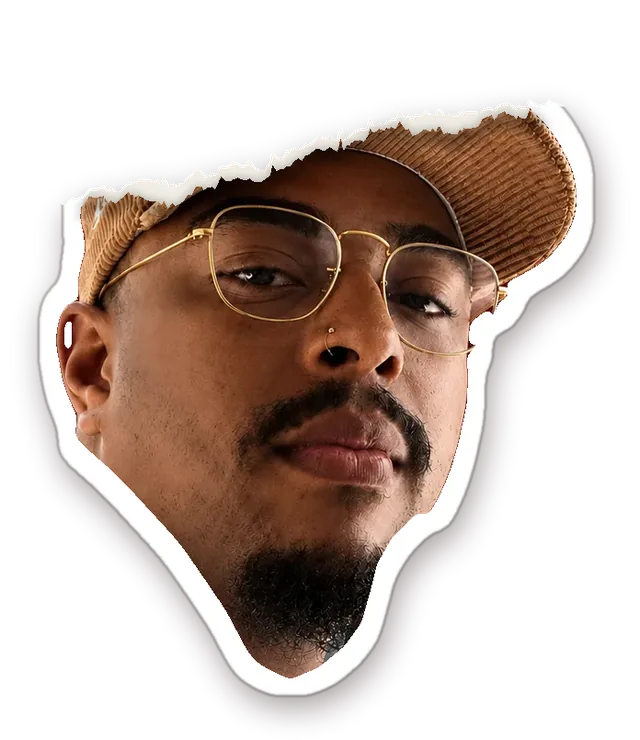
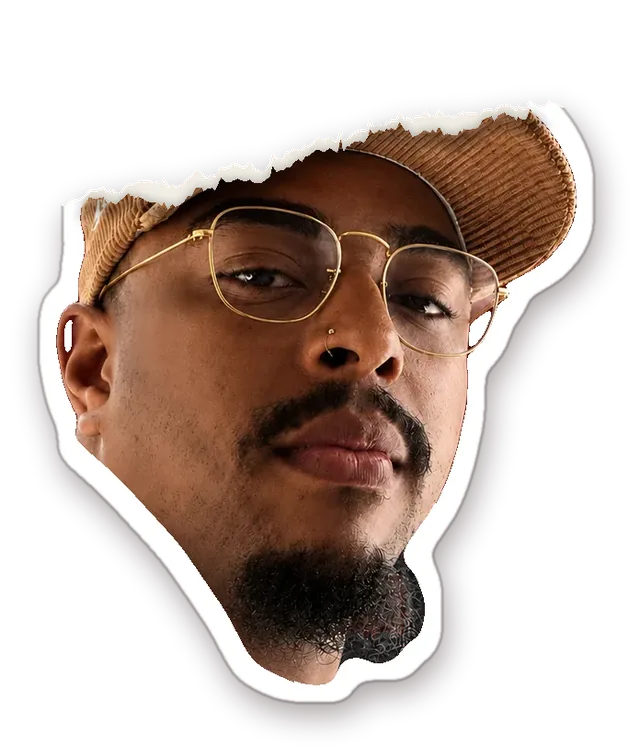
Clean goatee edge (#8)
The hero sticker keeps the whole goatee again, with the gaps between
curls filled and a smooth rounded edge instead of a chopped one. The red
background fringe in the beard is removed from the hero and the About
card portrait.

Claude-Session: https://claude.ai/code/session_01RGXm2qui5F1c798xJE6Kaf

diff --git a/site/index.html b/site/index.html
@@ -1211,10 +1211,10 @@ button.ccopy:focus-visible { outline: 2px solid var(--gold); outline-offset: 3px
 @media (max-width: 700px) { .ld-wrap { width: 124px; height: 124px; } .ld-mark { width: 64px; } .ld-name { font-size: 10.5px; letter-spacing: .2em; } }
 
 /* ---------- hero image: torn sticker head with design tools bursting out (after trevornoah.com) ---------- */
-.hz-frame .tn-head { --hw: min(33vw, 52svh); position: absolute; z-index: 1; left: 50%; top: calc(71svh - var(--hw) * 1.075); width: var(--hw); aspect-ratio: 696 / 805; transform: translateX(-50%) scale(var(--hz-s, 1)); transform-origin: 50% 45%; }
+.hz-frame .tn-head { --hw: min(33vw, 52svh); position: absolute; z-index: 1; left: 50%; top: calc(71svh - var(--hw) * 1.075); width: var(--hw); aspect-ratio: 696 / 812; transform: translateX(-50%) scale(var(--hz-s, 1)); transform-origin: 50% 45%; }
 .tn-clip { position: absolute; inset: 0; }
 .tn-clip > img { position: absolute; inset: 0; width: 100%; height: 100%; pointer-events: none; }
-.tn-clip > .tn-eyes { inset: auto; left: 24.43%; top: 27.33%; width: 56.03%; height: auto; opacity: var(--tn-eye, 0); }
+.tn-clip > .tn-eyes { inset: auto; left: 24.43%; top: 27.09%; width: 56.03%; height: auto; opacity: var(--tn-eye, 0); }
 .tn-roll { position: absolute; inset: 0; width: 100%; height: 100%; pointer-events: none; }
 .tn-par { display: block; transform: translate(var(--mx, 0px), var(--my, 0px)) rotate(var(--mr, 0deg)); transform-origin: 50% 90%; transition: scale .55s var(--spring), translate .55s var(--spring), filter .4s; }
 a.tn-obj { cursor: pointer; min-width: 44px; } span.tn-obj { pointer-events: none; }
@@ -1326,9 +1326,9 @@ html:not(.js-in) .tn-topp { display: none; }
           <a class="tn-obj o-cursor" href="#words" data-d="1.2" data-tip="Kind words" aria-label="Kind words" style="--x:65;--w:19;--b:25;--r:-8deg;--i:6"><span class="tn-par"><img src="img/tn_cursor.webp" alt="" decoding="async"></span></a>
           <a class="tn-obj o-coin" href="#clients" data-d="1.1" data-tip="Clients" aria-label="Clients" style="--x:79;--w:19;--b:21;--r:-12deg;--i:7"><span class="tn-par"><img src="img/tn_coin.webp" alt="" decoding="async"></span></a>
         </nav>
-        <img class="tn-bot" src="img/tn_head.webp" alt="Alfonzo Louw as a torn paper sticker, with design tools bursting out of his cap" width="696" height="805" fetchpriority="high">
+        <img class="tn-bot" src="img/tn_head.webp" alt="Alfonzo Louw as a torn paper sticker, with design tools bursting out of his cap" width="696" height="812" fetchpriority="high">
         <img class="tn-eyes" src="img/tn_eyes.webp" alt="" width="390" height="200" decoding="async">
-        <img class="tn-topp" src="img/tn_top.webp" alt="" width="696" height="805">
+        <img class="tn-topp" src="img/tn_top.webp" alt="" width="696" height="812">
         </div>
         <canvas class="tn-roll" aria-hidden="true"></canvas>
       </div>
